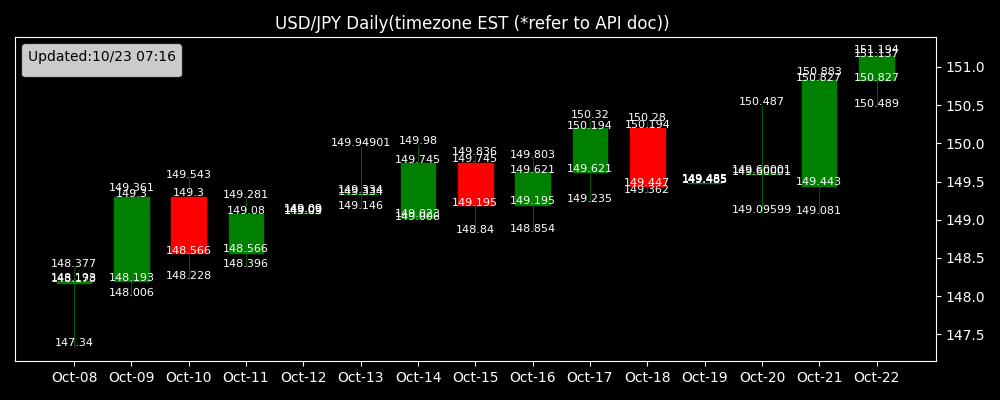
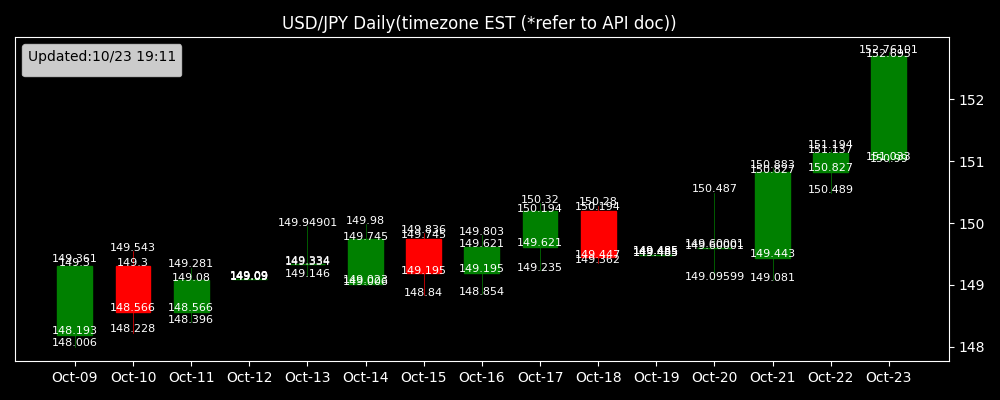
crongenerated

diff --git a/docs/src/dashboard/marketinfo.html b/docs/src/dashboard/marketinfo.html
@@ -14,14 +14,16 @@
     </style>
 </head>
 <body>
-    <h3> 概況 (更新： 10/23 07:16 ) </h3>
-    <p>ここ数週間の為替市場の動向を見ると、特に日本円に対する変動が確認されます。2024年10月8日から22日の間、為替レートは徐々に上昇しており、10月22日には151.137の水準に達しています。この上昇トレンドは、主に円安の動きによるものである可能性が示唆されます。最近の報道によれば、グローバルな経済指標や米国の金利政策などが影響しているかもしれません。
+    <h3> 概況 (更新： 10/23 19:11 ) </h3>
+    <p>このデータは、2024年10月9日から2024年10月23日までの為替レートの動向を示しています。この期間中、全体的に見ると、為替レートは上昇基調にあるようです。
 
-特に注目すべき日は、10月17日以降の日々の取引量が減少し、価格の上昇に伴ってボラティリティがやや高まっている点です。これは、市場参加者が重要な経済イベントや中央銀行の発言を待って構えている可能性を示唆しています。
+10月9日の始まりは148.193で、10月23日には152.695で終了しています。このことは、10月中に約4円以上の上昇があったことを示唆しています。特に10月21日から23日にかけては、上昇が顕著であり、152円台に達するまでの動きとなっています。
 
-また、10月20日と10月19日には取引が行われていないようですが、これは通常、週末や特別な市場休場日に見られる現象です。
+出来高を見てみると、この期間中、出来高の極端な動きは比較的少なく、最も取引が多かったのは10月10日で、約105.2万のボリュームを記録しています。この日は、148.566円でクローズしており、その後わずかな調整を繰り返した後、再び上昇しています。
 
-総じて、この動向は、円安が進行している中での市場の不確実性や期待が反映されている可能性がありますが、具体的な今後の動きについては明確には見通せません。最新のニュースを注意深く監視し、その影響を慎重に評価する必要があるでしょう。</p>
+この上昇トレンドの背景には、いくつかの要因が考えられます。例えば、現在の国際金融市場でのドルの動きや、各国の経済指標の発表、特にアメリカの金利政策の見通しなどが影響を与えている可能性があります。近年のニュースによれば、アメリカのインフレ率や雇用統計が堅調であるとされており、これがドル高の一因となっているのかもしれません。
+
+ただし、市場の動きは多くの要因によって左右されるため、この上昇トレンドが今後も継続するかどうかは不確定です。引き続き、各国の政策や経済指標、さらには市場のセンチメントなどを注視する必要があります。</p>
 
     <p>Text generated from ChatGPT API.</p>
 

diff --git a/docs/src/dashboard/forecast_text.html b/docs/src/dashboard/forecast_text.html
@@ -6,13 +6,9 @@
 </head>
 <body>
     <h3>今日の天気 (10-23 Wed)</h3>
-    <p>10月23日の天気についてお伝えします。この日は、午前中は晴れ間もありますが、午後から雨が降る時間帯があります。特に午後の早い時間から夕方にかけては雨が強まる可能性があります。
+    <p>2024年10月23日の東京の天気についてです。この日は、曇り時々晴れの天気で、所により雨が降る可能性があります。気温は最大で24.4℃まで上がりますが、降雨も予測されており、午後から夕方にかけて雨が強くなる時間帯もあります。
 
-気温は昼間にかけて上昇し、最高気温は約24.9℃となります。朝晩は少し涼しくなるでしょう。
-
-紫外線指数（UV Index）は最大で4.55となっています。これは中程度のレベルですので、長時間外出する際は、日傘やUV対策をすると良いでしょう。ただし、午後からは雨が降る可能性が高いため、雨傘を持参することをお勧めします。
-
-この日の総日照時間は約1823.59秒（およそ30分）と短いため、晴れている時間は限られていると思われます。</p>
-    (更新：10/23 07:16)
+この日のUVインデックスの最大値は4.25です。これは中程度のレベルであり、長時間の屋外活動を予定している場合は日傘があると安心です。さらに、日照時間は約10時間（609.53秒）ですので、晴れ間がある時間帯もあります。そのため、天気の変化には注意しつつ、外出の際は日傘を準備することをお勧めします。</p>
+    (更新：10/23 19:11)
 
 </html>
